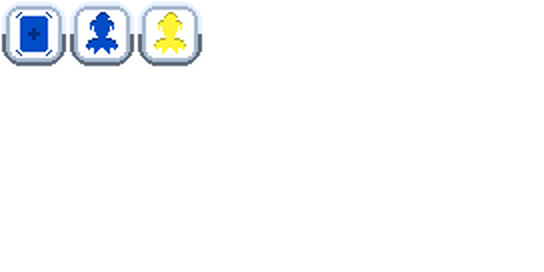
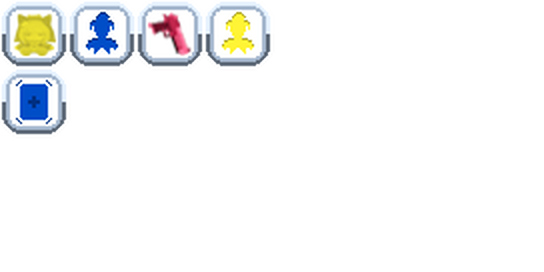
tags, fumos, readme

Changed region(s): [[0.25, 0.0, 0.5, 0.2647], [0.0, 0.2353, 0.125, 0.5], [0.0, 0.0294, 0.125, 0.2059]]

diff --git a/README.md b/README.md
@@ -1,4 +1,5 @@
-Kivolatro,
-A mod about blue archive.
-rn a lot is in WIP state
+Kivolatro
 
+A mod about Blue Archive things.
+
+rn a bunch of things still in WIP but im out of ideas